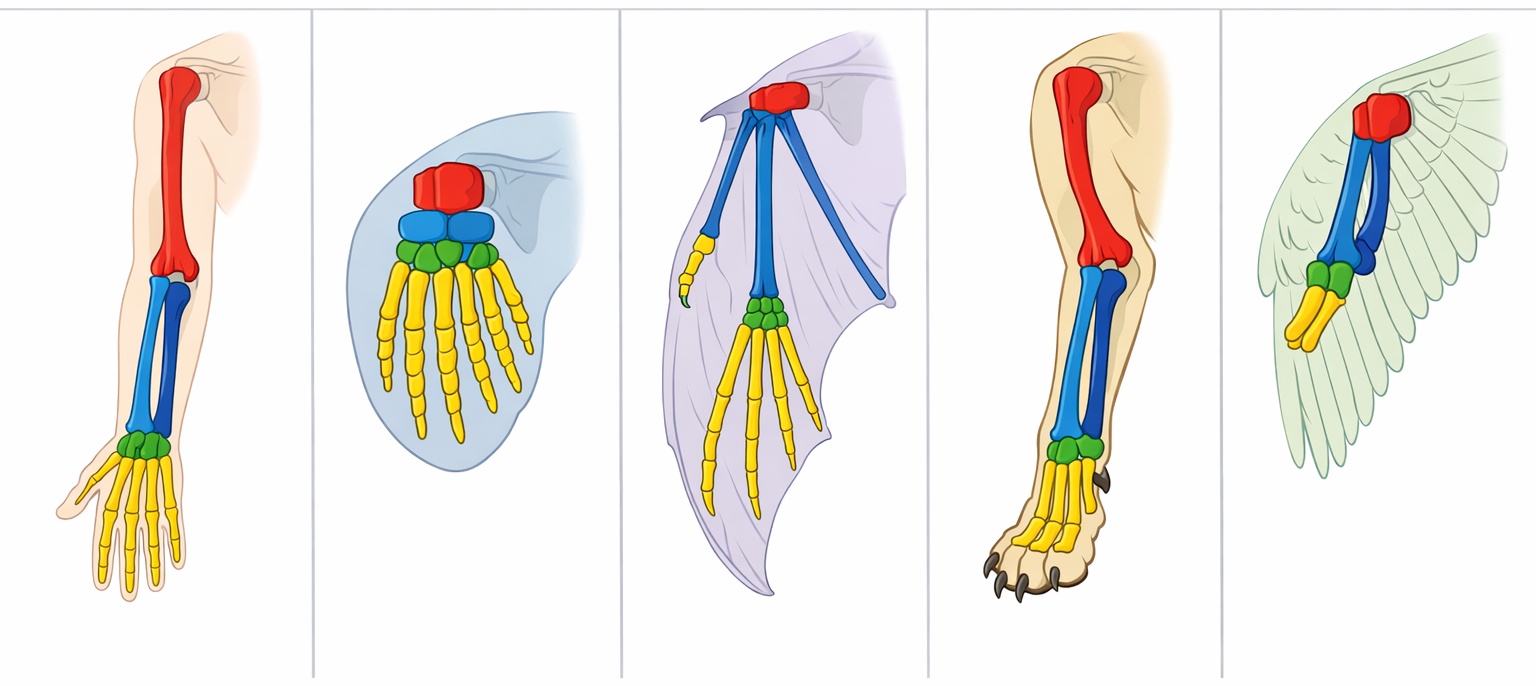
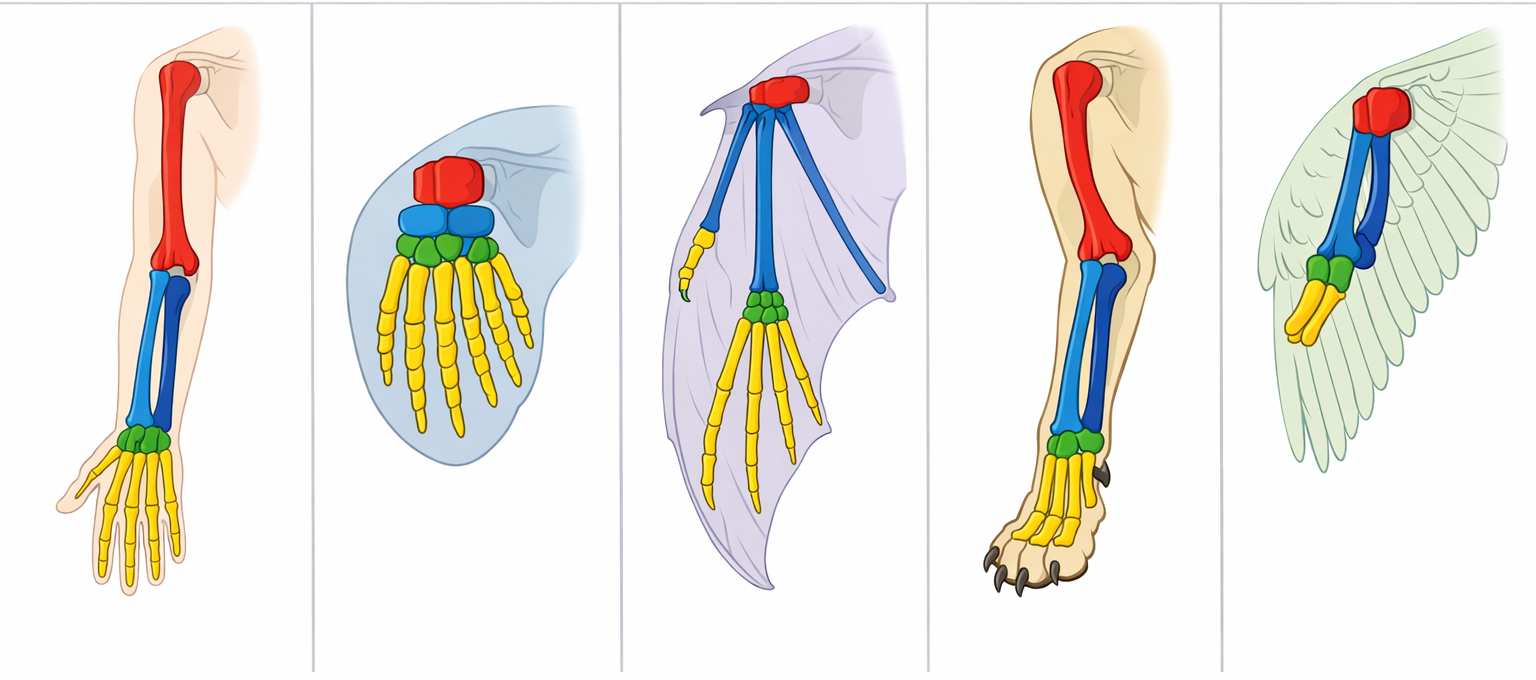
Fixed the top gray line on the image using the magik mogrify program

diff --git a/docs/sims/comparative-anatomy/comparative-anatomy.js b/docs/sims/comparative-anatomy/comparative-anatomy.js
@@ -1,6 +1,9 @@
 // Comparative Anatomy Explorer — Image overlay version
 // Students hover over species columns to learn about forelimb homology
 // MicroSim version 2026.02
+// Note - we did not refactor this code to use the ../shared-libs/diagram.js library
+// because we wanted to allow teachers to easily copy and paste this code into the
+// p5 web editor without needing to also copy the shared library files.
 
 let containerWidth;
 let canvasWidth = 800;
@@ -164,6 +167,7 @@ function draw() {
       fill('#ECF0F1');
     }
     noStroke();
+    // draw a background rectangle for the label
     rect(x, titleHeight, colW, labelHeight);
 
     // Label text
@@ -187,6 +191,8 @@ function draw() {
       if (i !== hoveredSpecies) {
         fill(255, 255, 255, 120);
         noStroke();
+        // Draw a white rectangle over the non-hovered columns to dim them.
+        // We want to highlight the hovered column by dimming the others
         rect(i * colW, imgTop, colW, imgDisplayHeight);
       }
     }

diff --git a/docs/sims/biogeochemical-cycles/index.md b/docs/sims/biogeochemical-cycles/index.md
@@ -19,11 +19,25 @@ quality_score: 0
 
 ## About This MicroSim
 
-TODO: Describe what this MicroSim demonstrates.
+This MicroSim turns a richly layered landscape illustration into a dashboard for
+tracking how matter flows through the carbon, nitrogen, phosphorus, and water
+cycles. The static art shows mountains, forests, farmland, wetlands, ocean
+waters, and underground strata so learners can visually anchor each reservoir.
+Interactive tabs fade in overlays for each cycle, highlighting reservoirs,
+process arrows, and human impacts such as combustion or fertilizer runoff. The
+goal is to help students compare how the same landscape supports multiple
+biogeochemical loops.
 
 ## How to Use
 
-TODO: Describe how students should interact with this MicroSim.
+1. Move through the tabs to focus on one cycle at a time; the legend explains
+   what each color-coded glow or arrow means.
+2. Hover markers to read short explanations of reservoirs, fluxes, and human
+   interventions tied to the artwork (e.g., the smokestack plume or aquifer).
+3. Toggle the “Human Impact” layer to compare the balanced natural cycle with
+   altered flows such as eutrophication, fossil fuel combustion, or deforestation.
+4. Challenge yourself to trace a specific atom (carbon, nitrogen, phosphorus, or
+   water) from source to sink across at least three reservoirs.
 
 ## Iframe Embed Code
 
@@ -39,23 +53,42 @@ You can add this MicroSim to any web page by adding this to your HTML:
 ## Lesson Plan
 
 ### Grade Level
-9-12 (High School Geometry)
+9-12 (AP/IB Biology or Earth Science)
 
 ### Duration
 10-15 minutes
 
 ### Prerequisites
-TODO: List prerequisites.
+- Understanding that matter cycles through reservoirs instead of being newly
+  created or destroyed.
+- Familiarity with reading diagrams and legends.
+- Prior exposure to an individual cycle (carbon or water) so students can scale
+  up to multiple cycles at once.
 
 ### Activities
 
-1. **Exploration** (5 min): TODO
-2. **Guided Practice** (5 min): TODO
-3. **Assessment** (5 min): TODO
+1. **Exploration (5 min)**: Free navigation through all tabs while students jot
+   down observed reservoirs and fluxes unique to each cycle.
+2. **Guided Practice (5 min)**: Assign a “follow the atom” prompt (e.g., trace a
+   nitrogen atom from lightning to the ocean floor) and have students verbalize
+   each path using the overlays.
+3. **Assessment (5 min)**: Provide a short worksheet asking students to identify
+   the two reservoirs most affected by human activity in each cycle and justify
+   their choice referencing the dashboard.
 
 ### Assessment
-TODO: List assessment criteria.
+- Diagram annotations or written responses describing at least three reservoirs,
+  two fluxes, and one human impact per cycle.
+- Exit ticket question: “Which reservoir serves as the long-term sink for each
+  cycle, and how do you know?” Students must reference visual evidence.
+- Optional extension: Students design a mitigation strategy (e.g., riparian
+  buffer) and describe how it would change the overlays.
 
 ## References
 
-1. TODO: Add references.
+1. National Oceanic and Atmospheric Administration. “Carbon Cycle.” Accessed
+   2024. https://sos.noaa.gov/datasets/carbon-cycle/
+2. NASA Earth Observatory. “Water Cycle.” Accessed 2024.
+   https://earthobservatory.nasa.gov/features/Water
+3. U.S. Geological Survey. “Nutrient Cycling in Agricultural Landscapes.”
+   Accessed 2024. https://www.usgs.gov/mission-areas/water-resources

diff --git a/docs/sims/index.md b/docs/sims/index.md
@@ -1,1 +1,53 @@
 # List of Interactive Infographic MicroSims
+
+<div class="grid cards" markdown>
+
+-   **[Animal Cell](./animal-cell/index.md)**
+
+    ![Animal Cell](./animal-cell/animal-cell.png)
+
+    Overlay-style MicroSim that spotlights six core organelles with hover callouts,
+    AP tips, and a quiz mode for quick recall checks. Use it as a template for
+    single-diagram explorations.
+
+-   **[Biogeochemical Cycles Dashboard](./biogeochemical-cycles/index.md)**
+
+    ![Biogeochemical Cycles](./biogeochemical-cycles/biogeochemical-cycles.png)
+
+    Tabbed dashboard that overlays the carbon, nitrogen, phosphorus, and water
+    cycles on one cross-sectional landscape. Toggle reservoirs, human impacts, and
+    narrated overlays to trace atoms through shared ecosystems.
+
+-   **[Brewing Beer Process Explorer](./brewing-beer/index.md)**
+
+    ![Brewing Beer Process Explorer](./brewing-beer/brewing-beer.png)
+
+    Five-stage walkthrough of alcoholic fermentation that pairs brewery equipment
+    cutaways with molecular-scale reactions. Students can jump between stages,
+    reveal annotations, and read the biochemical story as glucose becomes ethanol.
+
+-   **[Comparative Anatomy Explorer](./comparative-anatomy/index.md)**
+
+    ![Comparative Anatomy Explorer](./comparative-anatomy/comparative-anatomy.png)
+
+    Forelimbs from five vertebrates appear side by side; hovering over a bone
+    highlights the homologous structure in every species. Quiz mode asks learners
+    to classify homologous, analogous, or vestigial pairs with instant feedback.
+
+-   **[Prokaryote vs. Eukaryote Comparison](./prokaryote-eukaryote-comparison/index.md)**
+
+    ![Prokaryote vs. Eukaryote Comparison](./prokaryote-eukaryote-comparison/prokaryote-eukaryote-comparison.png)
+
+    Dual-panel diagram contrasting bacterial and animal cells with 15 labeled
+    structures, AP exam reminders, and a quiz pathway for structure identification.
+    Edit mode lets authors fine-tune marker coordinates.
+
+-   **[Learning Graph Viewer](./graph-viewer/index.md)**
+
+    ![Learning Graph Viewer](./graph-viewer/graph-veiwer.png)
+
+    Interactive force-directed viewer that loads the book's learning graph so you
+    can search, filter by category, pan/zoom the network, and view live statistics
+    on visible nodes and edges.
+
+</div>

diff --git a/AGENTS.md b/AGENTS.md
@@ -11,6 +11,9 @@ Content for mkdocs lives in `docs/`, organized by topic: `docs/chapters/` holds 
 ## Coding Style & Naming Conventions
 Write Markdown with ATX headings, sentence-case titles, and 80–100 character lines. Use tables and definition lists sparingly; prefer bullet lists for learning objectives. Front-matter blocks are not used, so link metadata inline. CSS and JS tweaks belong in `docs/css/custom.css` and `docs/js/custom.js`; follow two-space indentation and keep selectors or functions scoped to the infographic being modified (e.g., `.mascot-card-*`). Asset names should be lowercase-with-dashes and describe the figure (`docs/img/model-lifecycle.png`).
 
+## Skills Directory
+When a task references reusable skills, check `~/.codex/skills` for the latest copies before assuming a skill is missing.
+
 ## Testing Guidelines
 Before submitting, run `mkdocs build` to catch broken links or syntax errors; the command fails if there are missing assets, so treat it as the test suite. Large structural edits should also be verified with `mkdocs serve` while clicking through new pages. When adding diagrams or simulations, confirm they load without console errors in Chromium and Firefox.
 

diff --git a/docs/sims/comparative-anatomy/index.md b/docs/sims/comparative-anatomy/index.md
@@ -51,3 +51,18 @@ Basic understanding of natural selection and common ancestry.
 1. [Homology (biology)](https://en.wikipedia.org/wiki/Homology_(biology)) — Wikipedia
 2. [Comparative anatomy](https://en.wikipedia.org/wiki/Comparative_anatomy) — Wikipedia
 3. [AP Biology Course and Exam Description](https://apcentral.collegeboard.org/courses/ap-biology) — College Board
+
+## Forelimbs Image
+
+<style>
+      img {
+      border: 1px dashed blue;
+    }
+</style>
+![](forelimbs.png)
+
+To trim the top 5 pixels I ran the following UNIX shell command
+
+```sh
+ magick mogrify -gravity North -chop 0x5 docs/sims/comparative-anatomy/forelimbs.png
+ ```
